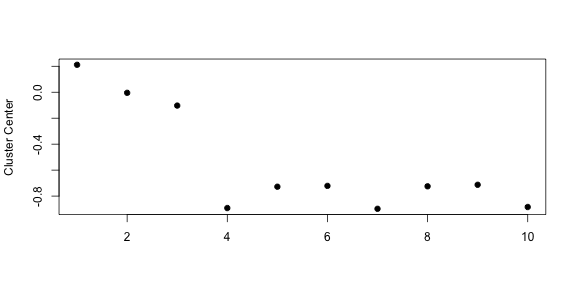
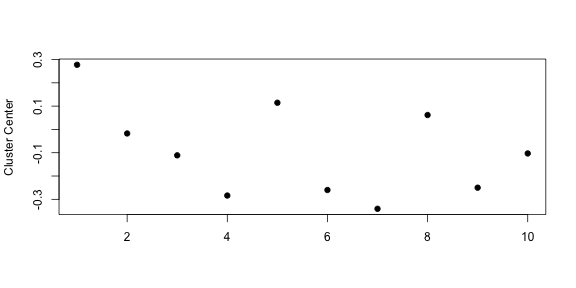
Cluster for walking is different

diff --git a/04_ExploratoryAnalysis/clusteringExample/index.html b/04_ExploratoryAnalysis/clusteringExample/index.html
@@ -1,9 +1,9 @@
 <!DOCTYPE html>
 <html>
 <head>
-  <title>Clustering Example</title>
+  <title>EDA Case Study - Understanding Human Activity with Smart Phones</title>
   <meta charset="utf-8">
-  <meta name="description" content="Clustering Example">
+  <meta name="description" content="EDA Case Study - Understanding Human Activity with Smart Phones">
   <meta name="author" content="Roger D. Peng, Associate Professor of Biostatistics">
   <meta name="generator" content="slidify" />
   <meta name="apple-mobile-web-app-capable" content="yes">
@@ -41,7 +41,7 @@
         <img src="../../assets/img/bloomberg_shield.png">
       </aside>
       <hgroup class="auto-fadein">
-        <h1>Clustering Example</h1>
+        <h1>EDA Case Study - Understanding Human Activity with Smart Phones</h1>
         <h2></h2>
         <p>Roger D. Peng, Associate Professor of Biostatistics<br/>Johns Hopkins Bloomberg School of Public Health</p>
       </hgroup>
@@ -249,12 +249,12 @@ table(kClust$cluster, sub1$activity)
 
 <pre><code>##    
 ##     laying sitting standing walk walkdown walkup
-##   1      0       0        0   95        0      0
-##   2      5       0        0    0        0     53
-##   3      0       0        0    0       23      0
-##   4     19      13        5    0        0      0
-##   5     26      34       48    0        0      0
-##   6      0       0        0    0       26      0
+##   1      0       0        0   50        1      0
+##   2      0       0        0    0       48      0
+##   3     27      37       51    0        0      0
+##   4      3       0        0    0        0     53
+##   5      0       0        0   45        0      0
+##   6     20      10        2    0        0      0
 </code></pre>
 
   </article>
@@ -349,7 +349,7 @@ table(kClust$cluster, sub1$activity)
     <h2>Cluster 2 Variable Centers (Walking)</h2>
   </hgroup>
   <article>
-    <pre><code class="r">plot(kClust$center[6, 1:10], pch = 19, ylab = &quot;Cluster Center&quot;, xlab = &quot;&quot;)
+    <pre><code class="r">plot(kClust$center[4, 1:10], pch = 19, ylab = &quot;Cluster Center&quot;, xlab = &quot;&quot;)
 </code></pre>
 
 <p><img src="figure/unnamed-chunk-10.png" alt="plot of chunk unnamed-chunk-10"> </p>

diff --git a/04_ExploratoryAnalysis/clusteringExample/index.md b/04_ExploratoryAnalysis/clusteringExample/index.md
@@ -1,5 +1,5 @@
 ---
-title       : Clustering Example
+title       : EDA Case Study - Understanding Human Activity with Smart Phones
 subtitle    : 
 author      : Roger D. Peng, Associate Professor of Biostatistics 
 job         : Johns Hopkins Bloomberg School of Public Health
@@ -200,12 +200,12 @@ table(kClust$cluster, sub1$activity)
 ```
 ##    
 ##     laying sitting standing walk walkdown walkup
-##   1      0       0        0   95        0      0
-##   2      5       0        0    0        0     53
-##   3      0       0        0    0       23      0
-##   4     19      13        5    0        0      0
-##   5     26      34       48    0        0      0
-##   6      0       0        0    0       26      0
+##   1      0       0        0   50        1      0
+##   2      0       0        0    0       48      0
+##   3     27      37       51    0        0      0
+##   4      3       0        0    0        0     53
+##   5      0       0        0   45        0      0
+##   6     20      10        2    0        0      0
 ```
 
 
@@ -299,7 +299,7 @@ plot(kClust$center[1, 1:10], pch = 19, ylab = "Cluster Center", xlab = "")
 
 
 ```r
-plot(kClust$center[6, 1:10], pch = 19, ylab = "Cluster Center", xlab = "")
+plot(kClust$center[4, 1:10], pch = 19, ylab = "Cluster Center", xlab = "")
 ```
 
 ![plot of chunk unnamed-chunk-10](figure/unnamed-chunk-10.png) 
